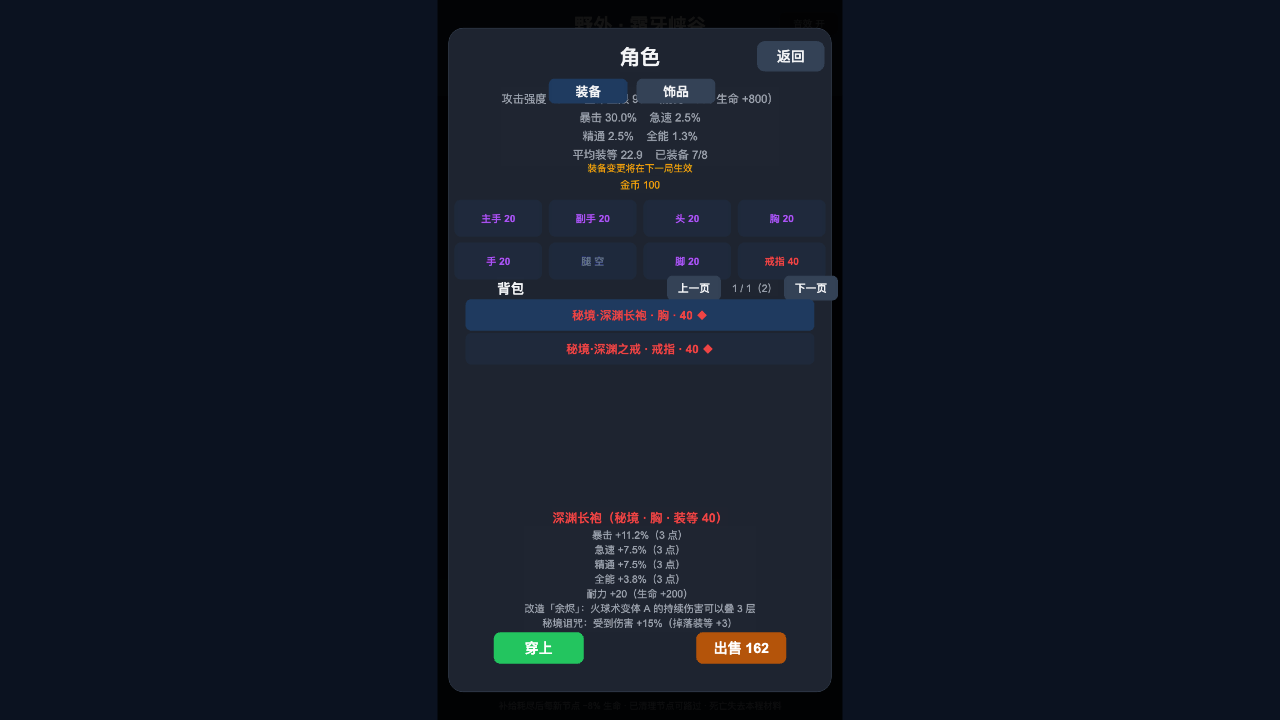
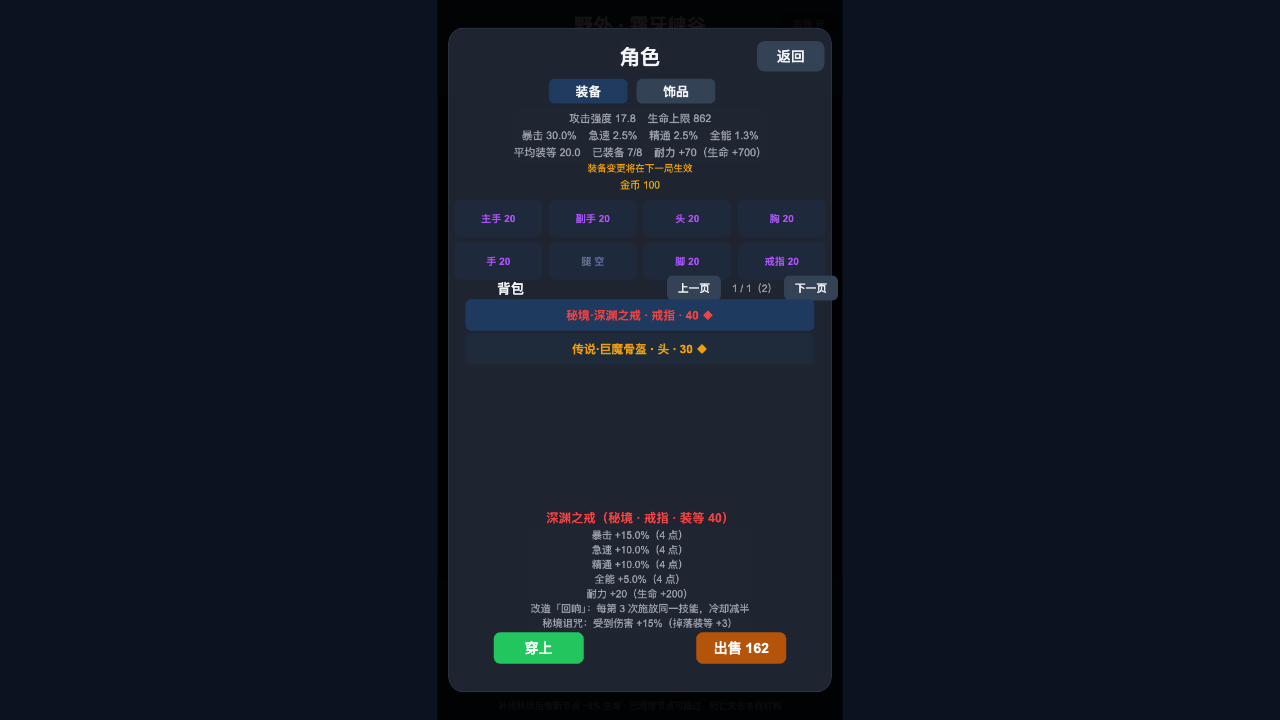
fix(mithril): 修正独立复核发现的 4 条 P2（余烬倒扣 / 贪食满包 / 荆棘口径 / 回响闪避）
独立子代理对 51f9d52 做对抗复核：P0/P1 = 0，P2 共 5 条，本轮修掉 4 条：

- 余烬叠层改为单调不降：增伤窗口结束后更弱的火球不再把已叠的燃烧倒扣
  （原来是 min(上限, 当前 + 本发)，20 点遇上一发 1 点会掉到 3）
- 贪食在背包临界满时不再静默吞掉额外件：按主件同规则折金币并写
  「贪食 · 背包已满：… 折算 N 金币」；`_grantItem` 新增 rng 参数，
  6 个调用点全部传本局种子，触发可复现
- 荆棘反伤口径与既有天赋 / 饰品统一为「护盾吸收前伤害」，文档与注释改正
- 回响覆盖闪避槽（设计把闪避算技能）：`_echoAdjustedCd('dodge', …)`，
  战士 1s 下限保留

遗留 P2（记入文档 §7）：背包满时首通标记不落库、可重复领首通奖励（既有问题，
需连同经济一起验，下一批次处理）。

验证：verify-mithril-core 240/240（新增 239 余烬单调、240 闪避回响）；
tsc OK；其余 7 个自检 + template / icons / sync / VS16 全绿；重新构建
26 场景后实机探针：闪避回响 [4,4,2]、余烬 20→20、背包 59/60 时额外件
折 60 金币、7 行详情留白 12px；控制台仅 favicon 404。

diff --git a/assets/games/game_mithril/scripts/MithrilGame.ts b/assets/games/game_mithril/scripts/MithrilGame.ts
@@ -600,7 +600,7 @@ export class MithrilGame extends Component {
         const item = rollItem(rng, { ilvl: node.ilvl, classId: save.classId, minQuality: 'uncommon' });
         if (item) {
             maybeLowerQuality(rng, item, lowerChance);
-            const label = this._grantItem(save, item, [], lines);
+            const label = this._grantItem(save, item, [], lines, undefined, rng);
             if (label) lines.push(`获得装备：${label}`);
         }
         // 拾荒者背包：额外搜刮一件，代价是最大生命 5%（饕餮协同会把这口血补回来一部分）
@@ -611,7 +611,7 @@ export class MithrilGame extends Component {
             const bonus = rollItem(rng, { ilvl: node.ilvl, classId: save.classId, minQuality: 'uncommon' });
             if (bonus) {
                 maybeLowerQuality(rng, bonus, lowerChance);
-                const label = this._grantItem(save, bonus, [], lines);
+                const label = this._grantItem(save, bonus, [], lines, undefined, rng);
                 if (label) lines.push(`拾荒者背包 · 额外获得：${label}`);
             }
             const heal = feastHealOnExtraLoot(save.trinkets, maxHp);
@@ -797,6 +797,7 @@ export class MithrilGame extends Component {
         granted: EquipItem[],
         notes: string[],
         onGranted?: () => void,
+        rng?: () => number,
     ): string {
         const base = GEAR_BASE_BY_ID[item.baseId];
         const q = QUALITY_BY_ID[item.quality];
@@ -806,13 +807,22 @@ export class MithrilGame extends Component {
             if (onGranted) onGranted();
             // 改造词条「贪食」：拾取装备时 5% 再掉一件（同槽位、品质不高于当前）。
             // 只触发一层（额外那件直接入包，不再走本函数），避免连锁到背包爆仓。
+            // 随机数走本局种子（调用方传入），让「贪食触发」在复现脚本里可重放。
             if (equippedModifiers(save).indexOf('gluttony') >= 0) {
-                const extra = gluttonyExtraDrop(Math.random, item);
-                if (extra && addToInventory(save, extra)) {
-                    granted.push(extra);
+                const extra = gluttonyExtraDrop(rng || Math.random, item);
+                if (extra) {
                     const eq = GEAR_BASE_BY_ID[extra.baseId];
                     const eqq = QUALITY_BY_ID[extra.quality];
-                    notes.push(`贪食 · 额外拾取：${eqq ? eqq.name : ''}·${eq ? eq.name : extra.baseId}（${GEAR_SLOT_NAMES[extra.slot]} ${extra.ilvl}）`);
+                    const extraLabel = `${eqq ? eqq.name : ''}·${eq ? eq.name : extra.baseId}（${GEAR_SLOT_NAMES[extra.slot]} ${extra.ilvl}）`;
+                    if (addToInventory(save, extra)) {
+                        granted.push(extra);
+                        notes.push(`贪食 · 额外拾取：${extraLabel}`);
+                    } else {
+                        // 背包刚好被主件填满：按主件同一规则折金币，别让玩家「触发了却什么都没拿到」
+                        const gold = sellPrice(extra);
+                        save.gold = Math.max(0, Math.floor(save.gold || 0) + gold);
+                        notes.push(`贪食 · 背包已满：${extraLabel} 折算 ${gold} 金币`);
+                    }
                 }
             }
             return label;
@@ -945,7 +955,7 @@ export class MithrilGame extends Component {
                         if (firstClear && save.dungeonsCleared.indexOf(node.dungeonId!) < 0) {
                             save.dungeonsCleared.push(node.dungeonId!);
                         }
-                    });
+                    }, rng);
                 }
                 // 饰品（M7）：首通必给本副本未拥有的一件，重复通关 25%；
                 // 本副本饰品已集齐时退化为金币，结算行照实写，不假装出货
@@ -969,7 +979,7 @@ export class MithrilGame extends Component {
                 const item = rollItem(rng, { ilvl: node.ilvl, classId: save.classId, quality });
                 if (item) {
                     maybeLowerQuality(rng, item, greedChance);
-                    this._grantItem(save, item, granted, reward);
+                    this._grantItem(save, item, granted, reward, undefined, rng);
                 }
             } else {
                 const def = node.kind === 'battle' || node.kind === 'elite' ? WILD_REWARDS[node.kind] : null;
@@ -981,7 +991,7 @@ export class MithrilGame extends Component {
                     });
                     if (item) {
                         maybeLowerQuality(rng, item, greedChance);
-                        this._grantItem(save, item, granted, reward);
+                        this._grantItem(save, item, granted, reward, undefined, rng);
                     }
                 }
             }
@@ -995,7 +1005,7 @@ export class MithrilGame extends Component {
                     const bonus = rollItem(rng, { ilvl: node.ilvl, classId: save.classId });
                     if (!bonus) continue;
                     maybeLowerQuality(rng, bonus, greedChance);
-                    const label = this._grantItem(save, bonus, granted, reward);
+                    const label = this._grantItem(save, bonus, granted, reward, undefined, rng);
                     if (label) {
                         reward.push(`贪婪之眼 · 额外掉落：${label}`);
                         gained++;

diff --git a/assets/games/game_mithril/scripts/MithrilCore.ts b/assets/games/game_mithril/scripts/MithrilCore.ts
@@ -1242,9 +1242,12 @@ export class MithrilWorld implements TrinketHost {
                     this._emit({ type: 'dodge', x: p.x, y: p.y, facing: dir });
                 }
                 // 战士沿用老公式（有 1s 下限与天赋减免），其它职业走统一冷却
-                cd.dodge = kit.resource === 'rage'
+                const baseCd = kit.resource === 'rage'
                     ? Math.max(1, act.cd * mod.cdMul / (1 + this.profile.haste) - tal.dodgeCdCut)
                     : this._skillCd(act.cd, mod);
+                // 改造词条「回响」对闪避同样生效（闪避也算技能槽），战士的 1s 下限仍在
+                const echoCd = this._echoAdjustedCd('dodge', baseCd);
+                cd.dodge = kit.resource === 'rage' ? Math.max(1, echoCd) : echoCd;
                 if (mod.v4.nextCrit || act.nextCrit) p.nextCrit = true;
                 if (tal.counterReflect > 0) p.counterReady = 1.5;
                 // 饰品（M7）：静默之铃 / 影回 / 影刺的窗口都从「闪避成功」起算
@@ -1987,11 +1990,16 @@ export class MithrilWorld implements TrinketHost {
                     if (dist2(b.x, b.y, e.x, e.y) > reach * reach) continue;
                     // 火球：先挂燃烧再结算直接伤害（直接伤害可能击杀并 splice 掉它）
                     // 饰品（M7）：余烬指环把「刷新燃烧」变成「叠加燃烧」
-                    // 改造词条「余烬」：同一次火球的 DoT 最多叠 3 层（比饰品更宽的叠加上限）
+                    // 改造词条「余烬」：同一次火球的 DoT 最多叠 3 层（比饰品更宽的叠加上限）。
+                    // 取 max 是为了单调不降：增伤窗口过去后单发 burnDps 会变小，
+                    // 不能因为「这一发更弱」把已经叠起来的燃烧倒扣下去。
                     if (b.burnDps && b.burnDur) {
                         if (this._mod('ember_stack')) {
                             const st = e.status;
-                            st.burnDps = Math.min(b.burnDps * EMBER_STACK_MAX, st.burnDps + b.burnDps);
+                            st.burnDps = Math.max(
+                                st.burnDps,
+                                Math.min(b.burnDps * EMBER_STACK_MAX, st.burnDps + b.burnDps),
+                            );
                             st.burnRemaining = Math.max(st.burnRemaining, b.burnDur);
                         } else {
                             this.trinkets.applyBurn(e, b.burnDps, b.burnDur);

diff --git a/tools/verify-mithril-core.js b/tools/verify-mithril-core.js
@@ -1829,6 +1829,34 @@ const BASE_DPS = C.measureDummyDps(BASE_PROFILE, 60);
     check('238. 秘境诅咒：受到的伤害 +15%',
         cursedLoss > plainLoss && near(cursedLoss, plainLoss * 1.15, 1e-6),
         `${plainLoss.toFixed(2)} → ${cursedLoss.toFixed(2)}`);
+
+    // 余烬叠层必须单调不降：增伤窗口过后单发 burnDps 变小，不能把已叠的燃烧倒扣
+    const monotoneCase = (ids, seed) => {
+        const w = new C.MithrilWorld(modProfile(ids), seed);
+        w.spawnEnemy('imp', 200, 200, 5000);
+        const hit = (dps) => {
+            const b = w.fireBullet('player', 200, 200, 0, 0, 1, 2, 'bolt');
+            b.burnDps = dps;
+            b.burnDur = 3;
+            w._tickBullets(0.016);
+        };
+        hit(10);
+        hit(10);
+        const stacked = w.enemies[0].status.burnDps;
+        hit(1); // 更弱的火球：不允许把 20 倒扣成 3
+        return { stacked, afterWeak: w.enemies[0].status.burnDps };
+    };
+    const mono = monotoneCase(['ember_stack'], 52);
+    check('239. 余烬：更弱的后续火球不会倒扣已叠的燃烧',
+        near(mono.stacked, 20) && near(mono.afterWeak, 20),
+        `${mono.stacked} → ${mono.afterWeak}`);
+
+    // 回响对闪避槽同样生效（闪避也算技能槽，计数与技能槽互相独立）
+    const echoDodgeW = new C.MithrilWorld(modProfile(['echo_cd']), 53);
+    const echoDodge = [];
+    for (let i = 0; i < 3; i++) echoDodge.push(echoDodgeW._echoAdjustedCd('dodge', 4));
+    check('240. 回响：闪避槽同样每第 3 次减半，且与技能槽独立计数',
+        deepEqual(echoDodge, [4, 4, 2]), echoDodge.join(','));
 }
 
 // ==================== 汇总 ====================

diff --git a/docs/plans/2026-11-16-mithril-design-gap-closure.md b/docs/plans/2026-11-16-mithril-design-gap-closure.md
@@ -56,11 +56,11 @@ export const MYTHIC_ILVL_BONUS = 3;      // 秘境补偿：装等 +3（仍封顶
 
 | 词条 | 接线点 | 行为 |
 |------|--------|------|
-| 余烬 `ember_stack` | `_tickBullets` 玩家弹命中 | 燃烧改为叠加：`min(burnDps × 3, 当前 + burnDps)`，持续取 max（无词条仍走饰品 `applyBurn` 的「刷新不叠加」） |
-| 回响 `echo_cd` | `_echoAdjustedCd()`，普攻 / 技能槽 / 爆发全走它 | 同一槽位**第 3 次真正施放**后本次冷却 ×0.5（下限 0.2s）；被资源不足挡下的施放不计数 |
+| 余烬 `ember_stack` | `_tickBullets` 玩家弹命中 | 燃烧改为叠加：`min(burnDps × 3, 当前 + burnDps)`，且**单调不降**（增伤窗口过去后更弱的火球不会把已叠的燃烧倒扣）；持续取 max（无词条仍走饰品 `applyBurn` 的「刷新不叠加」） |
+| 回响 `echo_cd` | `_echoAdjustedCd()`，普攻 / 技能槽 / 闪避 / 爆发全走它 | 同一槽位**第 3 次真正施放**后本次冷却 ×0.5（下限 0.2s）；被资源不足挡下的施放不计数；战士闪避的 1s 下限仍保留 |
 | 裂魂 `soul_split` | `_rollDamage()` | 暴击后额外掷一次骰，20% 重置闪避冷却。**只在暴击后才多掷**，没带词条时随机序列与旧版完全一致（老确定性断言不受影响） |
-| 荆棘 `thorn_armor` | `profileFromSave` 扣血 + `hitPlayer` 近战分支 | 最大生命 −10%（与耐力 / 料理同层乘算）+ 近战受击按实受伤反伤 30% |
-| 贪食 `gluttony` | `MithrilGame._grantItem()`（宝箱 / 战斗奖励 / BOSS 掉落都过这里） | 5% 额外掉一件并写结算行「贪食 · 额外拾取：…」；**只触发一层**（额外那件直接入包，不走本函数），避免连锁爆仓 |
+| 荆棘 `thorn_armor` | `profileFromSave` 扣血 + `hitPlayer` 近战分支 | 最大生命 −10%（与耐力 / 料理同层乘算）+ 近战受击按「护盾吸收前伤害」反伤 30%（与既有反伤天赋 / 荆棘饰品同口径，所以满盾时也反） |
+| 贪食 `gluttony` | `MithrilGame._grantItem()`（宝箱 / 战斗奖励 / BOSS 掉落都过这里） | 5% 额外掉一件并写结算行「贪食 · 额外拾取：…」；**只触发一层**（额外那件直接入包，不走本函数），避免连锁爆仓；**背包刚好满时按主件同规则折金币**并写「贪食 · 背包已满：… 折算 N 金币」；随机数用本局种子 |
 
 秘境诅咒同样落在 `hitPlayer` 的减伤之后：`dmg *= 1 + 0.15` —— 实打实多挨血，不被减伤稀释。
 
@@ -81,7 +81,7 @@ export const MYTHIC_ILVL_BONUS = 3;      // 秘境补偿：装等 +3（仍封顶
 
 ## 4. 验证
 
-### 4.1 纯逻辑（`tools/verify-mithril-core.js`，新增 17 项，222–238）
+### 4.1 纯逻辑（`tools/verify-mithril-core.js`，新增 19 项，222–240）
 
 | 断言组 | 内容 |
 |---|---|
@@ -89,15 +89,16 @@ export const MYTHIC_ILVL_BONUS = 3;      // 秘境补偿：装等 +3（仍封顶
 | 224–227 | 传说 / 秘境 200 次全带词条；史诗只有手工基型才有；秘境 +3 且封顶 40；`allowModifier:false` 一件不挂；首通固定装只吃手工词条 |
 | 228–229 | 贪食 5% 触发 + 同槽位 + 品质不高于原件（同档 / 降档两支）；品质特效文本只对传说 / 秘境出现且含 `15%` |
 | 230–232 | 已装备并集（去重 / 不含背包 / 过滤非法 id）；荆棘最大生命 −10%；只有秘境带诅咒 |
-| 233–238 | 回响 `[4,4,2,4,4,2]`（按槽位独立计数，换局清零）；裂魂暴击重置闪避（20% 门限两侧都对）；余烬 4 发 → 15（3 层）而普通只刷新 5；荆棘反伤 = 实受伤 ×0.3；诅咒承伤 ×1.15 |
+| 233–238 | 回响 `[4,4,2,4,4,2]`（按槽位独立计数，换局清零）；裂魂暴击重置闪避（20% 门限两侧都对）；余烬 4 发 → 15（3 层）而普通只刷新 5；荆棘反伤 = 承伤 ×0.3；诅咒承伤 ×1.15 |
+| 239–240 | 余烬**单调不降**（10+10 叠到 20 后，再来一发 1 点仍保持 20）；回响闪避槽同样 `[4,4,2]` |
 
-`node tools/verify-mithril-core.js` → **238/238 通过**（原 221 + 新增 17）。
+`node tools/verify-mithril-core.js` → **240/240 通过**（原 221 + 新增 19）。
 
 ### 4.2 回归（全部退出码 0）
 
 ```
 tsc --noEmit                      TS_OK（编辑器自带 5.8.2）
-verify-mithril-core.js            238 项
+verify-mithril-core.js            240 项
 verify-mithril-audio.js            88 项
 verify-mithril-wild.js          2,829 项
 verify-mithril-camp.js            337 项
@@ -111,40 +112,59 @@ verify-mithril-balance.js         136 项
 
 ### 4.3 构建产物实机（`build/web-mobile` + `127.0.0.1:8123`，Cocos 编辑器未启动）
 
-CLI 构建 26 场景 / 73 UUID、`Can not find the importer` = 0、`.meta` 零改动；注入「五条词条全带 + 秘境戒指 + 传说头盔」的合法存档（先过 `parseSave`）后走真实入口。属性面板三行化后**重新构建一次**，下表取自最终产物：
+CLI 构建 26 场景 / 73 UUID、`Can not find the importer` = 0、`.meta` 零改动；注入「五条词条全带 + 秘境戒指 + 传说头盔」的合法存档（先过 `parseSave`）后走真实入口。属性面板三行化与复核修补后**再构建一次**，下表取自最终产物（第三版）：
 
 | 探针 | 实测 |
 |---|---|
-| 角色面板 · 秘境详情 | `深渊之戒（秘境 · 戒指 · 装等 40）` + 4 行：暴击 / 耐力 / `改造「回响」…` / `秘境诅咒：受到伤害 +15%（掉落装等 +3）` |
+| 角色面板 · 秘境详情 | `深渊之戒（秘境 · 戒指 · 装等 40）` + **7 行**：4 词条 / 耐力 / `改造「回响」…` / `秘境诅咒：受到伤害 +15%（掉落装等 +3）` |
 | 角色面板 · 传说详情 | `巨魔骨盔（传说 · 头 · 装等 30）` + `传说特效：必带一条改造词条（规则改写）` |
-| 最坏 7 行布局 | 4 词条 + 耐力 + 改造 + 品质特效 = 7 行，不压「穿上 / 出售」 |
-| 属性块 vs 页签 | 标签实测高 97.8px、中心 y=400 ⇒ 占 351–449；页签在 y=478 ⇒ **留白 7px 以上**，`攻击强度 17.8 / 生命上限 862` 完整可见 |
+| 最坏 7 行布局 | 详情体实测高 **189px**、中心距按钮 **12px** 留白，「穿上 / 出售」不被压（[截图](../assets/2026-11-16-mithril-modifier-detail-7lines.png)） |
+| 属性块 vs 页签 | 标签实测高 97.8px、中心 y=400 ⇒ 占 351–449；页签在 y=478 ⇒ **留白 7px 以上**，`攻击强度 17.8 / 生命上限 862` 完整可见（[截图](../assets/2026-11-16-mithril-stats-3lines.png)） |
 | 装备秘境戒 | `equips.ring = ring_5 / mythic / echo_cd` |
-| 贪食接线（`_grantItem` × 400） | 命中 **14 次**（期望 20，5%），示例行「贪食 · 额外拾取：稀有·铁盔（头 20）」——品质确实低于原件的史诗 |
+| 贪食 · 正常触发 | `_grantItem` × 400 命中 **14 次**（期望 20，5%），示例行「贪食 · 额外拾取：稀有·铁盔（头 20）」——品质确实低于原件的史诗 |
+| 贪食 · 背包临界 | 背包上限 60：58/60 时两件都入包；**59/60 时主件入包、额外件折算 60 金币**并写「贪食 · 背包已满：… 折算 60 金币」；60/60 时主件走既有折金币路径 |
 | 开远征 → 点 battle 节点 | `_mode = combat`、`phase = playing` |
 | `profile.modifiers` | `ember_stack, thorn_armor, echo_cd, soul_split, gluttony`（5/5） |
-| `profile.curse` | `true`（已穿秘境戒）；`maxHp = 952.2` |
-| 回响 | `_echoAdjustedCd('probeSlot', 4)` × 6 → `[4,4,2,4,4,2]` |
-| 余烬 | 同源 4 发燃烧：`0 → 15`（3 层 ×5） |
+| `profile.curse` | 穿上秘境戒后为 `true`；`maxHp = 952.2`（荆棘 −10% 已计入） |
+| 回响 | 技能槽 `_echoAdjustedCd('probeSlot', 4)` × 6 → `[4,4,2,4,4,2]`；**闪避槽** ×3 → `[4,4,2]` |
+| 余烬 | 同源 4 发燃烧：`0 → 15`（3 层 ×5）；10+10 叠到 **20** 后再来一发 1 点仍为 **20**（不倒扣） |
 | 荆棘 | 近战受击：实受伤 **57.5**，反伤 **17.25**（= ×0.3） |
 | 秘境诅咒 | 同一世界同 100 点伤害：`85 → 97.75`（×1.15） |
 | 裂魂 | 必暴 + rng 0.1：`crit = true`、`cd.dodge = 5 → 0` |
-| 控制台 | 20 条，**0 error、0 warning** |
+| 控制台 | 29 条，**1 error（仅 favicon 404）**；2 warning 来自探针调用的已弃用 `game._sceneInfos`，非游戏代码 |
 
 > 存档安全：产物跑在 `127.0.0.1:8123`，与编辑器预览 `127.0.0.1:7456` 不同源，玩家既有存档不受影响；注入的测试档只存在于本页 `localStorage`。
 > 产物目录里的 `mithril-mod-save.json` 是本次注入用的临时文件（`build/` 已 gitignore）。
 
-## 5. 改动文件
+## 5. 独立复核与修补
+
+提交后用**独立子代理**（只读、不看开发者结论）对 `51f9d52` 做了一轮对抗复核，逐项检查词条生效边界、诅咒结算位置、回响计数、掉落优先级与面板像素账目。
+
+**结论：P0 = 0、P1 = 0**，另有 5 条 P2。其中 2 条是真实缺陷、2 条是口径问题，已在本轮修掉：
+
+| # | 问题 | 处理 |
+|---|------|------|
+| P2-1 | 余烬叠层会**倒扣**：增伤窗口过去后更弱的火球会把已叠的燃烧降下来 | 已修：叠层取 `max(当前, min(上限, 当前 + 本发))`，单调不降；新增断言 239（10+10→20 再来 1 点仍为 20） |
+| P2-2 | 贪食在背包临界满时**静默吞掉**额外件；且用 `Math.random` 让「触发」不可复现 | 已修：满包按主件规则折金币并写「贪食 · 背包已满：… 折算 N 金币」；`_grantItem` 新增 `rng` 参数，6 个调用点全部传入本局种子 |
+| P2-3 | 荆棘反伤基数用的是 `landed + absorbed`（护盾吸收前），与「按实受伤」的表述不符 | 已修口径：行为与既有反伤天赋 / 荆棘饰品保持一致（满盾也反），文档与注释改为「按护盾吸收前伤害」 |
+| P2-4 | 回响不覆盖闪避槽，与设计把闪避算作技能的写法不一致 | 已修：闪避也走 `_echoAdjustedCd('dodge', …)`，战士 1s 下限保留；新增断言 240（`[4,4,2]`） |
+| P2-5 | **既有问题**（非本次改动引入）：背包满时副本首通标记不落库，可重复领首通经验 / 技能书 | **本轮不修**，记入 §6：首通记账与物品入包解耦需要连同经济一起验，留给后续批次 |
+
+复核同时指出：§4.3 里 7 行详情截图是**属性块三行化之前**拍的，与本轮修复互相打架；已在该构建上用 4 词条秘境装重拍（见 §4.3）。
+
+## 6. 改动文件
 
 `assets/games/game_mithril/scripts/MithrilConfig.ts`、`MithrilLoot.ts`、`MithrilCore.ts`、`MithrilGame.ts`、`MithrilMenu.ts`、`tools/verify-mithril-core.js`、本文件、`docs/README.md`。
 
-## 6. 仍未闭合（不影响试玩，记账）
+## 7. 仍未闭合（不影响试玩，记账）
 
 1. **技能变体 7 / 24**：设计 §3.4 的「24 技能 × 4 变体 = 96 种形态」目前只有 7 个技能配了 2/4 级变体，其余 17 个只吃等级。属**内容量**差距，不是机制缺口；下一批次按职业逐条补，每补 1 个技能同步补自检。
-2. **P2 偏差 4 条**（技能变体外的细节，见 M11 最终复核记录）留待试玩反馈一并排序。
+2. **背包满时首通可重复领取**（复核 P2-5，既有问题）：首通紫装入包失败时 `dungeonsCleared` 不落库，经验 / 技能书仍发放，可反复刷。修法是把「首通记账」与「物品入包」解耦，但要连同经济曲线一起验，留给后续批次。
+3. **其余 P2 偏差**（技能变体外的细节，见 M11 最终复核记录）留待试玩反馈一并排序。
 
-## 7. 提交
+## 8. 提交
 
 ```
-feat(mithril): 补全改造词条 / 品质特效 / 15 件手工基型，属性面板三行化
+51f9d52  feat(mithril): 补全改造词条 / 品质特效 / 15 件手工基型，属性面板三行化
+<本轮>   fix(mithril): 修正复核发现的 4 条 P2（余烬倒扣 / 贪食满包 / 荆棘口径 / 回响闪避）
 ```

diff --git a/docs/README.md b/docs/README.md
@@ -227,7 +227,7 @@
 | 游戏设计（总规格） | [`plans/2026-11-14-game-mithril-design.md`](./plans/2026-11-14-game-mithril-design.md) | 野外路线图 + 六秘境节点制战斗、装备 / 词条 / 饰品与 12 条协同、技能 / 天赋 / 变体、营地与悬赏、v2 存档迁移、程序化合成音效 + 震动开关、M1–M11 里程碑与退出判据 |
 | 里程碑验收 | [`plans/2026-11-14-mithril-m1-acceptance.md`](./plans/2026-11-14-mithril-m1-acceptance.md) → [`m2`](./plans/2026-11-15-mithril-m2-acceptance.md) → [`m3`](./plans/2026-11-15-mithril-m3-acceptance.md) → [`m4`](./plans/2026-11-15-mithril-m4-acceptance.md) → [`m5`](./plans/2026-11-15-mithril-m5-acceptance.md) → [`m6`](./plans/2026-11-15-mithril-m6-acceptance.md) → [`m7`](./plans/2026-11-15-mithril-m7-acceptance.md) → [`m8`](./plans/2026-11-16-mithril-m8-acceptance.md) → [`m9`](./plans/2026-11-16-mithril-m9-acceptance.md) → [`m10`](./plans/2026-11-16-mithril-m10-acceptance.md) → [`m11`](./plans/2026-11-16-mithril-m11-acceptance.md) | 每份含退出判据实测表、交付内容、回归与提交 |
 | 阶段计划 | [`m6`](./plans/2026-11-15-mithril-m6-plan.md)、[`m7`](./plans/2026-11-15-mithril-m7-plan.md)、[`m8`](./plans/2026-11-16-mithril-m8-plan.md)、[`m9`](./plans/2026-11-16-mithril-m9-plan.md)、[`m10`](./plans/2026-11-16-mithril-m10-plan.md)、[`m11`](./plans/2026-11-16-mithril-m11-plan.md) | 各阶段的实现拆解与风险 |
-| 设计差距补全（M2 词条 / 品质特效） | [`plans/2026-11-16-mithril-design-gap-closure.md`](./plans/2026-11-16-mithril-design-gap-closure.md) | 5 条改造词条接线到战斗 / 掉落、传说唯一特效 + 秘境诅咒落地、15/50 手工基型、属性面板三行化修遮挡；含 238 项自检与构建产物实机探针 |
+| 设计差距补全（M2 词条 / 品质特效） | [`plans/2026-11-16-mithril-design-gap-closure.md`](./plans/2026-11-16-mithril-design-gap-closure.md) | 5 条改造词条接线到战斗 / 掉落、传说唯一特效 + 秘境诅咒落地、15/50 手工基型、属性面板三行化修遮挡；含 240 项自检与构建产物实机探针、一轮独立子代理复核 |
 | 试玩报告 | 第 10–20 轮：[`round10`](./plans/2026-11-15-playtest-round10-mithril.md)、[`round11`](./plans/2026-11-15-playtest-round11-mithril-m4.md)、[`round12`](./plans/2026-11-15-playtest-round12-mithril-m4-recheck.md)、[`round13`](./plans/2026-11-15-playtest-round13-mithril-m5.md)、[`round14`](./plans/2026-11-15-playtest-round14-mithril-m5-recheck.md)、[`round15`](./plans/2026-11-15-playtest-round15-mithril-m6.md)、[`round16`](./plans/2026-11-15-playtest-round16-mithril-m7.md)、[`round17`](./plans/2026-11-16-playtest-round17-mithril-m8.md)、[`round18`](./plans/2026-11-16-playtest-round18-mithril-m9.md)、[`round19`](./plans/2026-11-16-playtest-round19-mithril-m10.md)、[`round20`](./plans/2026-11-16-playtest-round20-mithril-m11.md) | fresh 子代理试玩，P0/P1 清零后进入下一阶段；第 20 轮是**构建产物**（`build/web-mobile`）发布前冒烟 |
 | 回归自检 | `tools/verify-mithril-core.js`、`-wild`、`-camp`、`-dungeons`、`-trinkets`、`-bounty`、`-balance`、`-audio` | 纯逻辑 + 映射表 + 工程约束共 7,600+ 项断言，清单与「何时跑」见 [`tech/verify-scripts.md`](./tech/verify-scripts.md) |
 

diff --git a/docs/tech/verify-scripts.md b/docs/tech/verify-scripts.md
@@ -43,7 +43,7 @@ node tools/verify-<game>-core.js          # 退出码 0 = 通过
 | `verify-bubble-core.js` | 泡泡龙 | 六边形网格几何与邻居对称性、关卡配置合法性、布局颜色平衡、同色连通与悬空掉落、弹道反射与吸附不重叠、快照往返、随机长跑 |
 | `verify-sokoban-core.js` | 推箱子 | ASCII 解析与错误输入、走位/推箱/卡住判定、撤销精确还原、通关判定、快照往返、BFS 逐关可解 + par 一致、解法回放、长跑不变量 |
 | `verify-fridge-core.js` | 冰箱底下 | M1 移动/瞄准/眼泪/敌人/拾取；M2 地图生成/门锁/清房/宝箱/Boss/存档；M3 40 道具、14 协同、6 角色技能、免死复活、商店/祭坛/炸弹/秘密房 |
-| `verify-mithril-core.js` | 秘银远征 | M0：数值曲线、副属性预算、天赋规则、技能变体、存档净化、配置完整性、战斗骨架（确定性、实体上限、无 NaN、无敌帧）；M8：每局悬赏统计（击杀分类 / 精英无伤 / 爆发击杀 / 低血 / 10 秒窗口 / 暴击 / BOSS 尾刀）；M2 补全：5 条改造词条（余烬叠加 / 回响冷却 / 裂魂闪避 / 荆棘反伤与减血 / 贪食额外掉落）、传说与秘境品质特效、15/50 手工基型（238 项） |
+| `verify-mithril-core.js` | 秘银远征 | M0：数值曲线、副属性预算、天赋规则、技能变体、存档净化、配置完整性、战斗骨架（确定性、实体上限、无 NaN、无敌帧）；M8：每局悬赏统计（击杀分类 / 精英无伤 / 爆发击杀 / 低血 / 10 秒窗口 / 暴击 / BOSS 尾刀）；M2 补全：5 条改造词条（余烬叠加 / 回响冷却 / 裂魂闪避 / 荆棘反伤与减血 / 贪食额外掉落）、传说与秘境品质特效、15/50 手工基型（240 项） |
 | `verify-mithril-wild.js` | 秘银远征 | M4：地图生成（12 节点 / 6 层 / 连线对称 / 无孤岛）、走法规则（起点免费回退、相邻已清理节点路过、当前未结算节点重开、不相邻已清理节点拒绝）、补给扣减与耗尽 8% 扣血、宝箱 / 事件 / 篝火、死亡与放弃只吞本程材料、存档往返与坏档回落（2828 项） |
 | `verify-mithril-camp.js` | 秘银远征 | M5：营地设施（铁匠铺 / 训练场 / 厨房）等级与解锁、材料产出与消耗、料理场次、天赋方案存取、经济不变量（337 项） |
 | `verify-mithril-dungeons.js` | 秘银远征 | M6：24 敌人 / 6 副本 × 3 遭遇 / 6 份 BOSS 编排与阶段同序、6 件首通紫装、区域路由、美术登记、**4 职业 × 6 副本自动通关矩阵**（892 项） |
